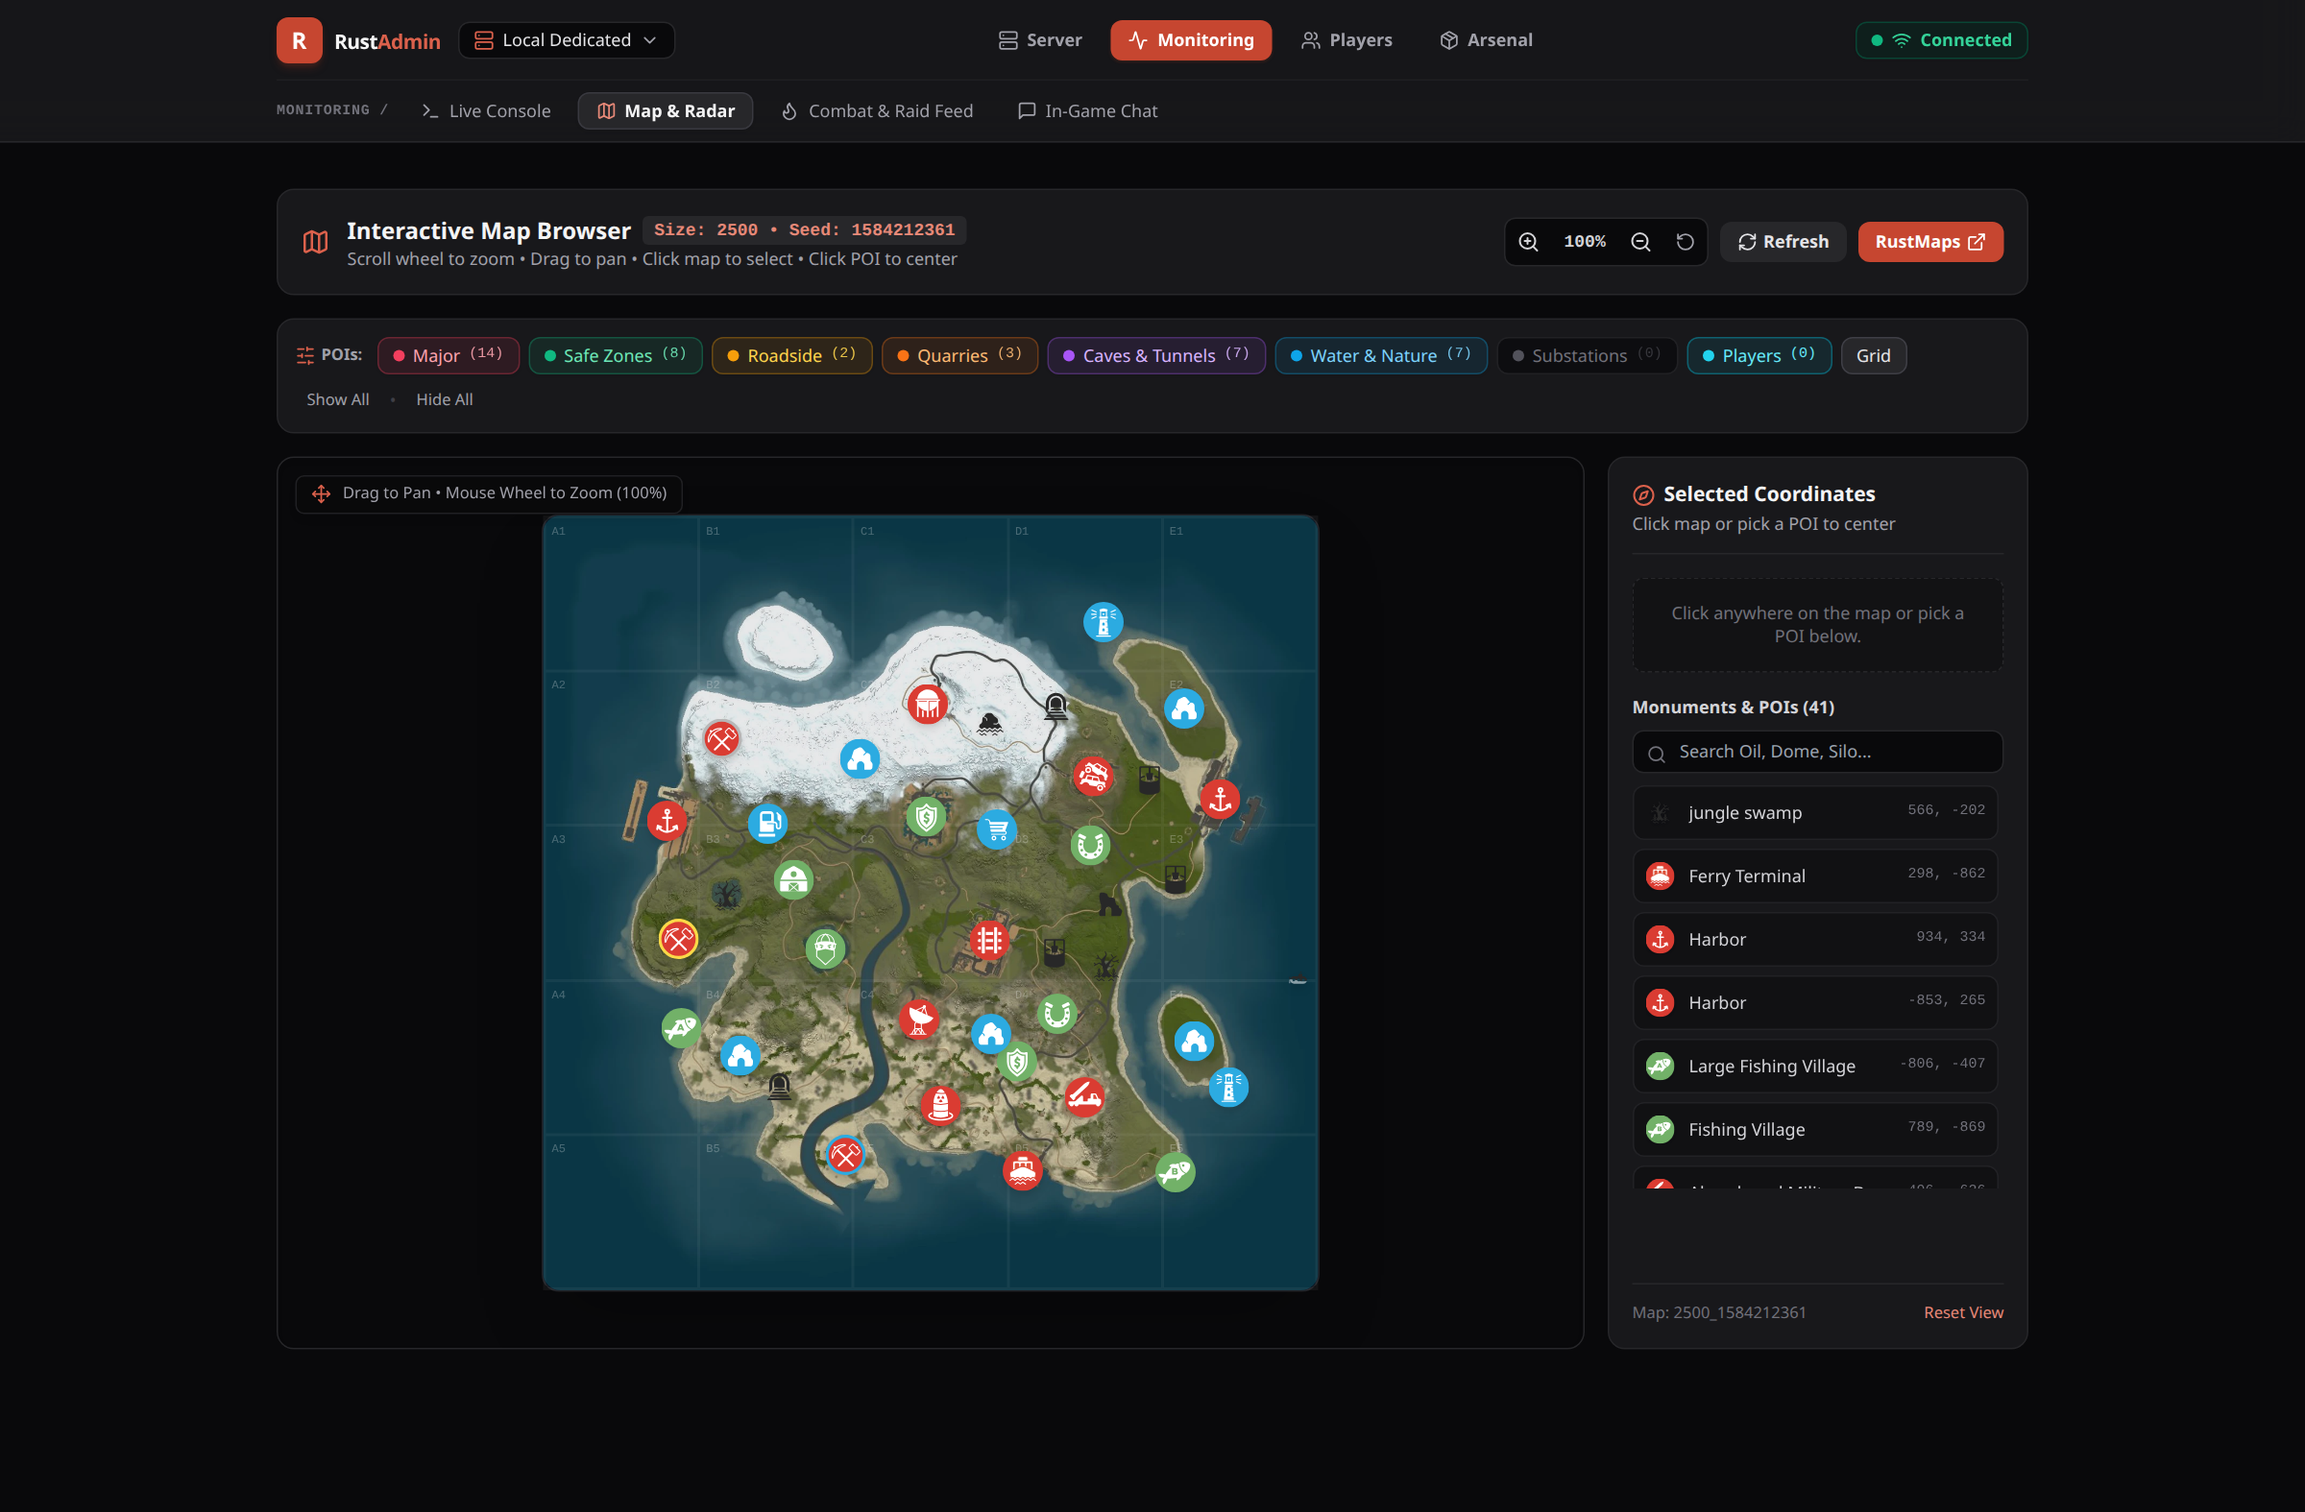
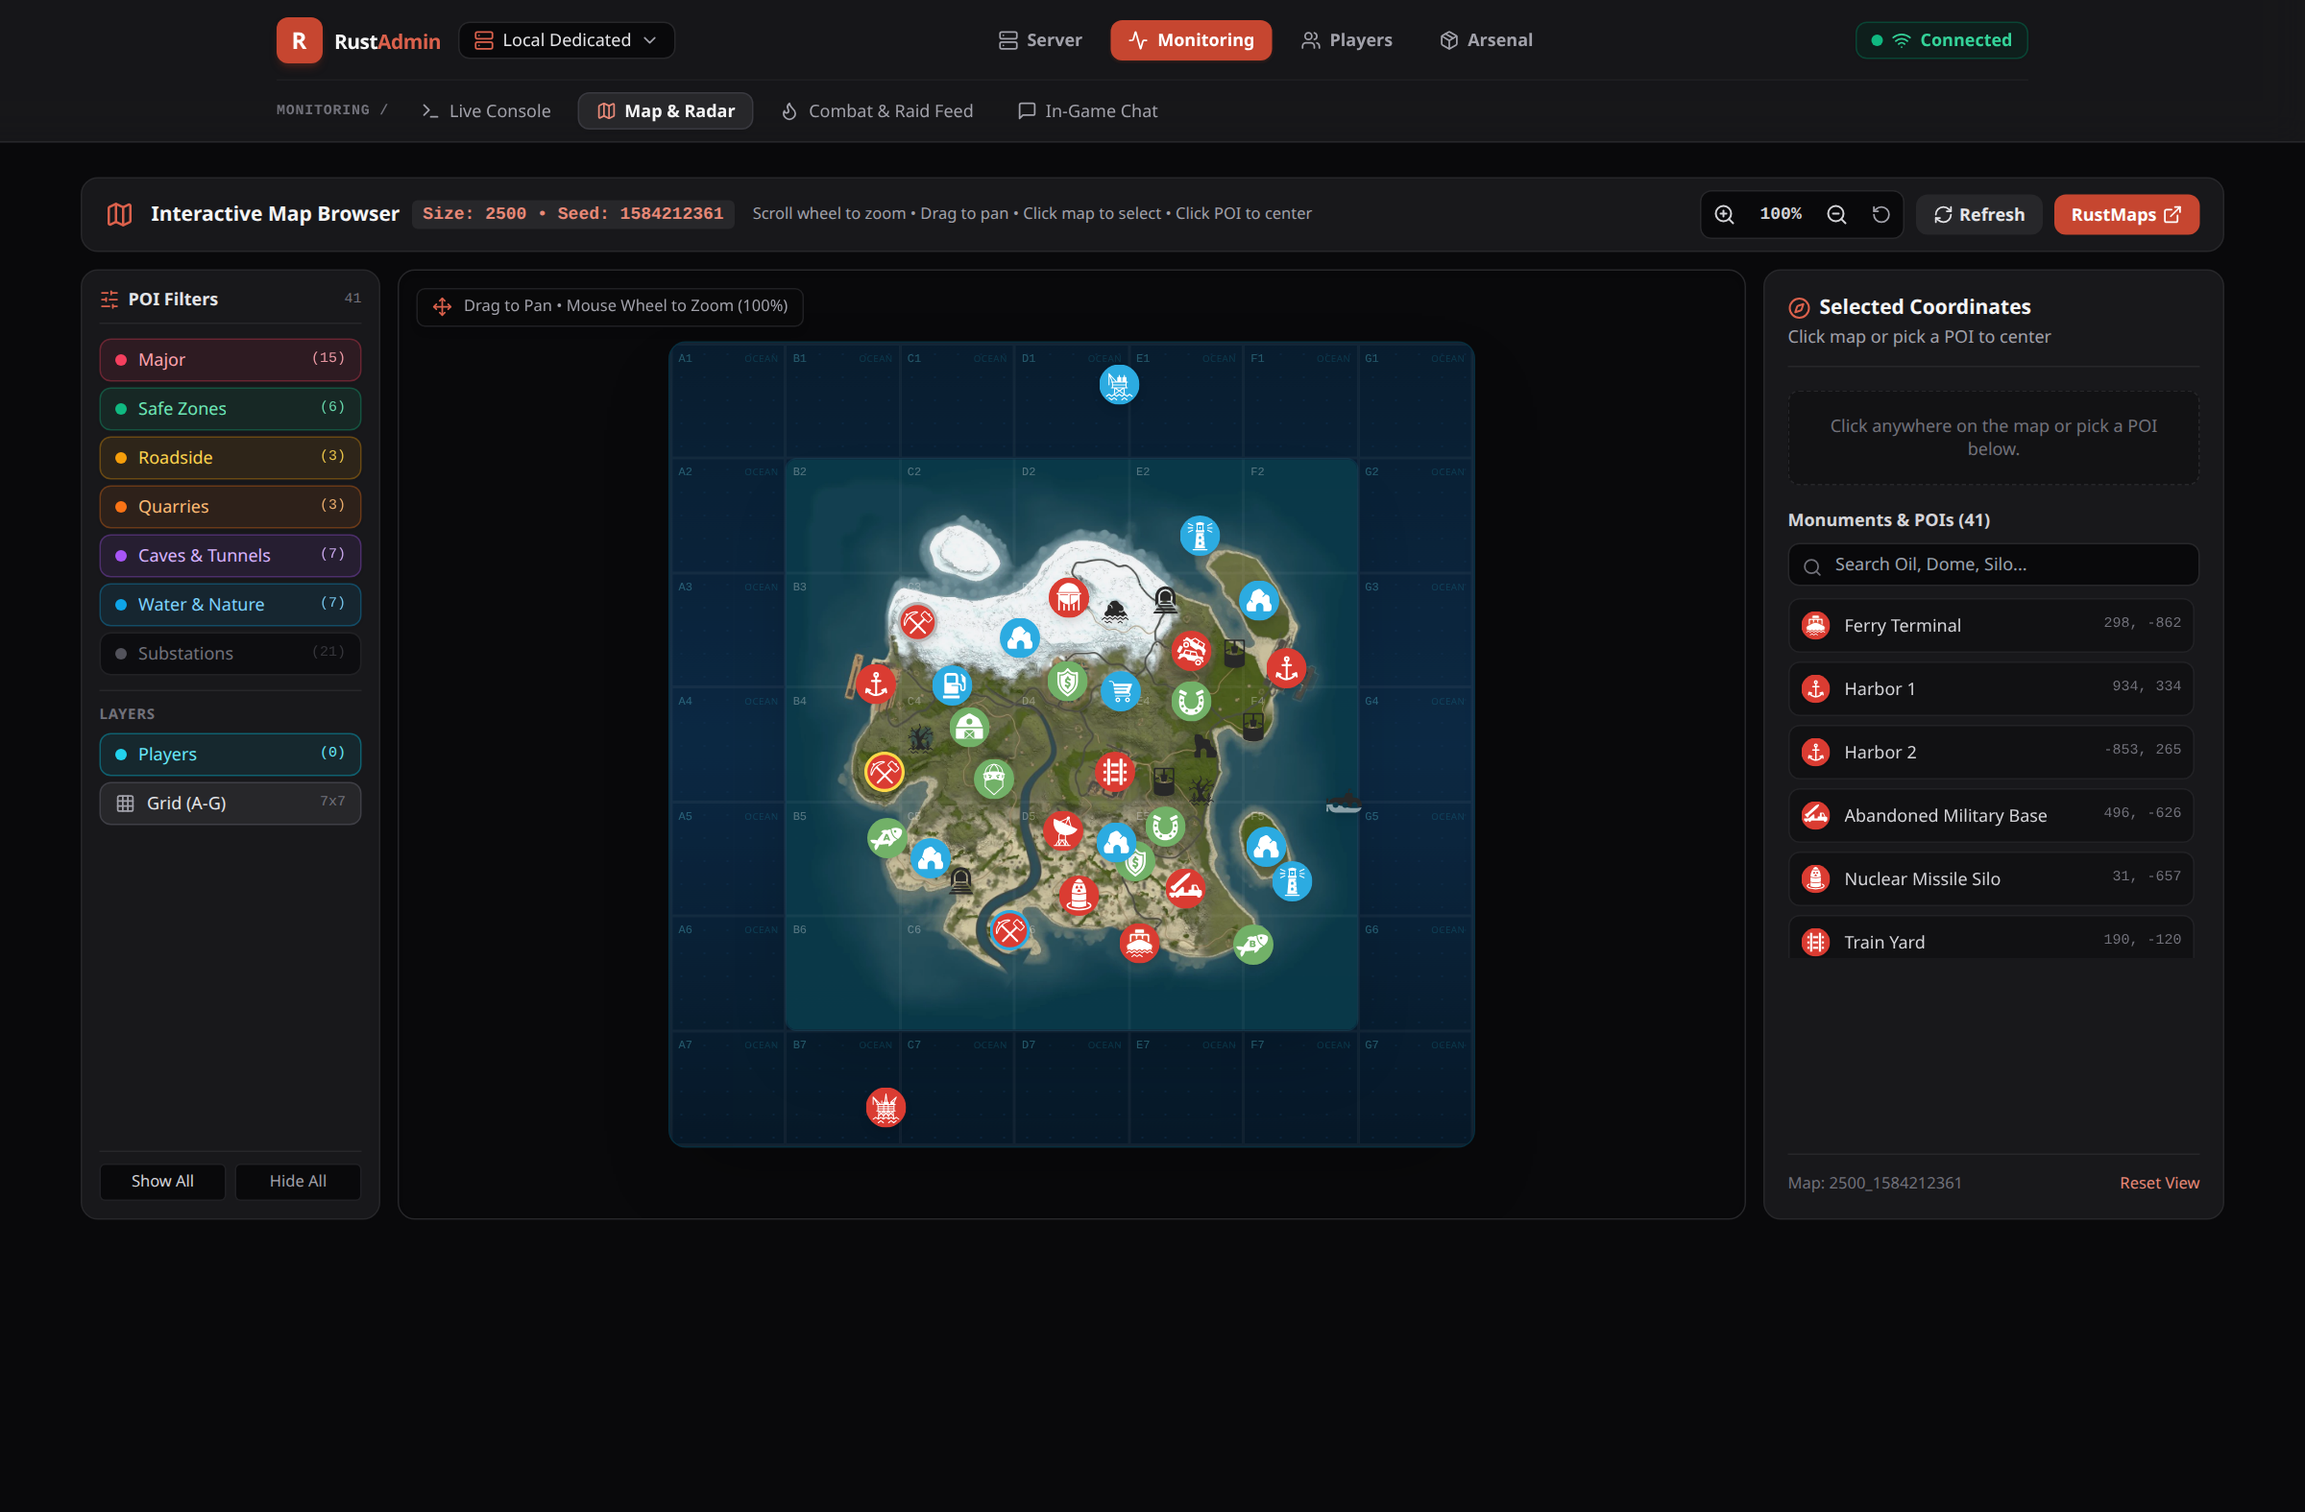
feat(map): move POI filters to vertical sidebar on the left and elevate map position

diff --git a/src/components/MapTab.tsx b/src/components/MapTab.tsx
@@ -26,7 +26,8 @@ import {
   Radio,
   Warehouse,
   CircleDot,
-  Skull
+  Skull,
+  Grid
 } from 'lucide-react';
 import { rconService } from '../services/rconService';
 import { ServerStatus } from '../types/rcon';
@@ -586,7 +587,7 @@ export const MapTab: React.FC = () => {
   }, {});
 
   return (
-    <div className="space-y-4">
+    <div className="space-y-2.5 sm:space-y-3">
       {/* Toast Alert */}
       {toast && (
         <div className="fixed bottom-6 right-6 z-50 bg-zinc-800 border border-rust-500/50 text-white px-4 py-2.5 rounded-lg shadow-xl text-sm flex items-center space-x-2 animate-bounce">
@@ -596,17 +597,17 @@ export const MapTab: React.FC = () => {
       )}
 
       {/* Toolbar */}
-      <div className="flex flex-wrap items-center justify-between gap-3 bg-zinc-900 border border-zinc-800 p-4 rounded-xl">
+      <div className="flex flex-wrap items-center justify-between gap-3 bg-zinc-900 border border-zinc-800 py-2 px-3 sm:px-4 rounded-xl">
         <div className="flex items-center space-x-3">
-          <MapIcon className="w-5 h-5 text-rust-500" />
-          <div>
-            <h2 className="text-base font-bold text-zinc-100 flex items-center space-x-2">
+          <MapIcon className="w-5 h-5 text-rust-500 shrink-0" />
+          <div className="flex flex-wrap items-center gap-x-3 gap-y-0.5">
+            <h2 className="text-sm font-bold text-zinc-100 flex items-center space-x-2">
               <span>Interactive Map Browser</span>
               <span className="px-2 py-0.5 bg-zinc-800 text-rust-400 font-mono text-xs rounded">
                 Size: {mapSize} • Seed: {mapSeed}
               </span>
             </h2>
-            <p className="text-xs text-zinc-400">
+            <p className="text-[11px] text-zinc-400 hidden sm:block">
               Scroll wheel to zoom • Drag to pan • Click map to select • Click POI to center
             </p>
           </div>
@@ -668,92 +669,119 @@ export const MapTab: React.FC = () => {
         </div>
       </div>
 
-      {/* POI Category Filter Badges */}
-      <div className="bg-zinc-900 border border-zinc-800 p-3 rounded-xl flex flex-wrap items-center justify-between gap-2 text-xs">
-        <div className="flex flex-wrap items-center gap-1.5">
-          <span className="text-zinc-400 font-semibold text-[11px] mr-1 flex items-center space-x-1">
-            <SlidersHorizontal className="w-3.5 h-3.5 text-rust-500" />
-            <span>POIs:</span>
-          </span>
+      {/* Main Map Viewer Layout: Left Vertical Filters, Center Map, Right Coordinates & POIs */}
+      <div className="flex flex-col lg:flex-row gap-3 items-stretch">
+        {/* Left Column: POI Category Filter Badges (Vertical) */}
+        <div className="w-full lg:w-48 xl:w-52 shrink-0 bg-zinc-900 border border-zinc-800 rounded-xl p-3 flex flex-col justify-between space-y-3">
+          <div className="space-y-2.5">
+            {/* Header */}
+            <div className="flex items-center justify-between pb-2 border-b border-zinc-800">
+              <span className="text-zinc-200 font-bold text-xs flex items-center space-x-1.5">
+                <SlidersHorizontal className="w-3.5 h-3.5 text-rust-500" />
+                <span>POI Filters</span>
+              </span>
+              <span className="text-[10px] text-zinc-500 font-mono">
+                {filteredMonuments.length}
+              </span>
+            </div>
 
-          {(Object.keys(categoryConfigs) as MonumentCategory[]).map((cat) => {
-            const cfg = categoryConfigs[cat];
-            const active = visibleCategories[cat];
-            const count = categoryCounts[cat] || 0;
-            return (
-              <button
-                key={cat}
-                onClick={() => toggleCategory(cat)}
-                className={`flex items-center space-x-1.5 px-2.5 py-1 rounded-lg border font-medium transition-all ${
-                  active
-                    ? `${cfg.badgeBg} border-opacity-60 shadow-sm`
-                    : 'bg-zinc-950/70 border-zinc-800/80 text-zinc-500 hover:text-zinc-300'
-                }`}
-                title={`Toggle ${cfg.label}`}
-              >
-                <div className={`w-2 h-2 rounded-full ${active ? cfg.dot : 'bg-zinc-600'}`} />
-                <span>{cfg.label}</span>
-                <span className={`text-[10px] font-mono ${active ? 'opacity-90' : 'opacity-40'}`}>
-                  ({count})
-                </span>
-              </button>
-            );
-          })}
+            {/* Vertical Category Buttons */}
+            <div className="space-y-1">
+              {(Object.keys(categoryConfigs) as MonumentCategory[]).map((cat) => {
+                const cfg = categoryConfigs[cat];
+                const active = visibleCategories[cat];
+                const count = categoryCounts[cat] || 0;
+                return (
+                  <button
+                    key={cat}
+                    onClick={() => toggleCategory(cat)}
+                    className={`w-full flex items-center justify-between px-2.5 py-1.5 rounded-lg border text-xs font-medium transition-all ${
+                      active
+                        ? `${cfg.badgeBg} border-opacity-60 shadow-sm`
+                        : 'bg-zinc-950/70 border-zinc-800/80 text-zinc-500 hover:text-zinc-300 hover:border-zinc-700'
+                    }`}
+                    title={`Toggle ${cfg.label}`}
+                  >
+                    <div className="flex items-center space-x-2 truncate">
+                      <div className={`w-2 h-2 rounded-full shrink-0 ${active ? cfg.dot : 'bg-zinc-600'}`} />
+                      <span className="truncate">{cfg.label}</span>
+                    </div>
+                    <span className={`text-[10px] font-mono ml-1.5 shrink-0 ${active ? 'opacity-90' : 'opacity-40'}`}>
+                      ({count})
+                    </span>
+                  </button>
+                );
+              })}
+            </div>
 
-          {/* Players Toggle */}
-          <button
-            onClick={() => toggleCategory('players')}
-            className={`flex items-center space-x-1.5 px-2.5 py-1 rounded-lg border font-medium transition-all ${
-              visibleCategories.players
-                ? 'bg-cyan-500/10 border-cyan-500/40 text-cyan-300'
-                : 'bg-zinc-950/70 border-zinc-800/80 text-zinc-500 hover:text-zinc-300'
-            }`}
-          >
-            <div className={`w-2 h-2 rounded-full ${visibleCategories.players ? 'bg-cyan-400' : 'bg-zinc-600'}`} />
-            <span>Players</span>
-            <span className="text-[10px] font-mono">({players.length})</span>
-          </button>
+            {/* Overlays / Layers */}
+            <div className="pt-2 border-t border-zinc-800">
+              <span className="text-[10px] uppercase font-semibold tracking-wider text-zinc-500 block mb-1.5">
+                Layers
+              </span>
+              <div className="space-y-1">
+                {/* Players Toggle */}
+                <button
+                  onClick={() => toggleCategory('players')}
+                  className={`w-full flex items-center justify-between px-2.5 py-1.5 rounded-lg border text-xs font-medium transition-all ${
+                    visibleCategories.players
+                      ? 'bg-cyan-500/10 border-cyan-500/40 text-cyan-300'
+                      : 'bg-zinc-950/70 border-zinc-800/80 text-zinc-500 hover:text-zinc-300 hover:border-zinc-700'
+                  }`}
+                  title="Toggle Online Players Marker Overlay"
+                >
+                  <div className="flex items-center space-x-2 truncate">
+                    <div className={`w-2 h-2 rounded-full shrink-0 ${visibleCategories.players ? 'bg-cyan-400' : 'bg-zinc-600'}`} />
+                    <span>Players</span>
+                  </div>
+                  <span className="text-[10px] font-mono">({players.length})</span>
+                </button>
 
-          {/* Grid Toggle */}
-          <button
-            onClick={() => toggleCategory('grid')}
-            className={`flex items-center space-x-1.5 px-2.5 py-1 rounded-lg border font-medium transition-all ${
-              visibleCategories.grid
-                ? 'bg-zinc-800 border-zinc-700 text-zinc-200'
-                : 'bg-zinc-950/70 border-zinc-800/80 text-zinc-500 hover:text-zinc-300'
-            }`}
-          >
-            <span>Grid</span>
-          </button>
+                {/* Grid Toggle */}
+                <button
+                  onClick={() => toggleCategory('grid')}
+                  className={`w-full flex items-center justify-between px-2.5 py-1.5 rounded-lg border text-xs font-medium transition-all ${
+                    visibleCategories.grid
+                      ? 'bg-zinc-800 border-zinc-700 text-zinc-200'
+                      : 'bg-zinc-950/70 border-zinc-800/80 text-zinc-500 hover:text-zinc-300 hover:border-zinc-700'
+                  }`}
+                  title="Toggle 7x7 Grid Overlay (A-G, 1-7)"
+                >
+                  <div className="flex items-center space-x-2 truncate">
+                    <Grid className="w-3.5 h-3.5 text-zinc-400 shrink-0" />
+                    <span>Grid (A-G)</span>
+                  </div>
+                  <span className="text-[10px] font-mono text-zinc-500">7x7</span>
+                </button>
+              </div>
+            </div>
+          </div>
+
+          {/* Quick Actions: Show All / Hide All */}
+          <div className="pt-2 border-t border-zinc-800 flex items-center gap-1.5">
+            <button
+              onClick={() => setAllCategories(true)}
+              className="flex-1 py-1 text-[11px] bg-zinc-950 hover:bg-zinc-800 text-zinc-300 rounded border border-zinc-800/80 transition-colors text-center"
+            >
+              Show All
+            </button>
+            <button
+              onClick={() => setAllCategories(false)}
+              className="flex-1 py-1 text-[11px] bg-zinc-950 hover:bg-zinc-800 text-zinc-400 rounded border border-zinc-800/80 transition-colors text-center"
+            >
+              Hide All
+            </button>
+          </div>
         </div>
 
-        <div className="flex items-center space-x-1.5">
-          <button
-            onClick={() => setAllCategories(true)}
-            className="text-[11px] text-zinc-400 hover:text-zinc-200 px-2 py-0.5 rounded hover:bg-zinc-800 transition-colors"
-          >
-            Show All
-          </button>
-          <span className="text-zinc-700">•</span>
-          <button
-            onClick={() => setAllCategories(false)}
-            className="text-[11px] text-zinc-400 hover:text-zinc-200 px-2 py-0.5 rounded hover:bg-zinc-800 transition-colors"
-          >
-            Hide All
-          </button>
-        </div>
-      </div>
-
-      {/* Main Map Viewer */}
-      <div className="grid grid-cols-1 lg:grid-cols-4 gap-4">
-        {/* Map Canvas Viewport with Wheel Zoom and Pan Drag */}
+        {/* Center: Map Canvas Viewport with Wheel Zoom and Pan Drag */}
         <div
           ref={viewportRef}
           onMouseDown={handleMouseDown}
           onMouseMove={handleMouseMove}
           onMouseUp={handleMouseUp}
           onMouseLeave={() => isDragging && setIsDragging(false)}
-          className={`lg:col-span-3 bg-zinc-950 border border-zinc-800 rounded-xl p-4 overflow-hidden shadow-inner flex items-center justify-center min-h-[620px] relative select-none ${
+          className={`flex-1 min-w-0 bg-zinc-950 border border-zinc-800 rounded-xl p-2 sm:p-4 overflow-hidden shadow-inner flex items-center justify-center min-h-[540px] lg:min-h-[580px] h-[calc(100vh-210px)] max-h-[660px] relative select-none ${
             isDragging ? 'cursor-grabbing' : 'cursor-grab'
           }`}
         >
@@ -945,7 +973,7 @@ export const MapTab: React.FC = () => {
         </div>
 
         {/* Map Sidebar: POI List & Coordinates */}
-        <div className="bg-zinc-900 border border-zinc-800 rounded-xl p-4 flex flex-col justify-between space-y-4">
+        <div className="w-full lg:w-72 xl:w-80 shrink-0 bg-zinc-900 border border-zinc-800 rounded-xl p-3 sm:p-4 flex flex-col justify-between space-y-3">
           <div className="space-y-4">
             {/* Coordinates & Teleport Section */}
             <div className="border-b border-zinc-800 pb-3">
@@ -1028,7 +1056,7 @@ export const MapTab: React.FC = () => {
               </div>
 
               {/* Scrollable Monuments List with Glyphs */}
-              <div className="max-h-[280px] overflow-y-auto space-y-1.5 pr-1 custom-scrollbar">
+              <div className="max-h-[220px] xl:max-h-[250px] overflow-y-auto space-y-1.5 pr-1 custom-scrollbar">
                 {filteredMonuments.map((m) => {
                   const svgUrl = getMonumentSvg(m);
                   const isSelected = selectedCoord && selectedCoord.x === Math.round(m.x) && selectedCoord.z === Math.round(m.z);

diff --git a/src/App.tsx b/src/App.tsx
@@ -58,7 +58,7 @@ export function App() {
         onOpenConnect={() => setIsConnectOpen(true)}
       />
 
-      <main className="flex-1 max-w-7xl w-full mx-auto p-4 sm:p-6 lg:p-8">
+      <main className="flex-1 max-w-7xl 2xl:max-w-[1536px] w-full mx-auto p-3 sm:p-5 lg:p-6">
         {/* Server Section */}
         <div className={activeTab === 'dashboard' ? 'block' : 'hidden'}><DashboardTab /></div>
         <div className={activeTab === 'convars' ? 'block' : 'hidden'}><ConvarsTab /></div>
